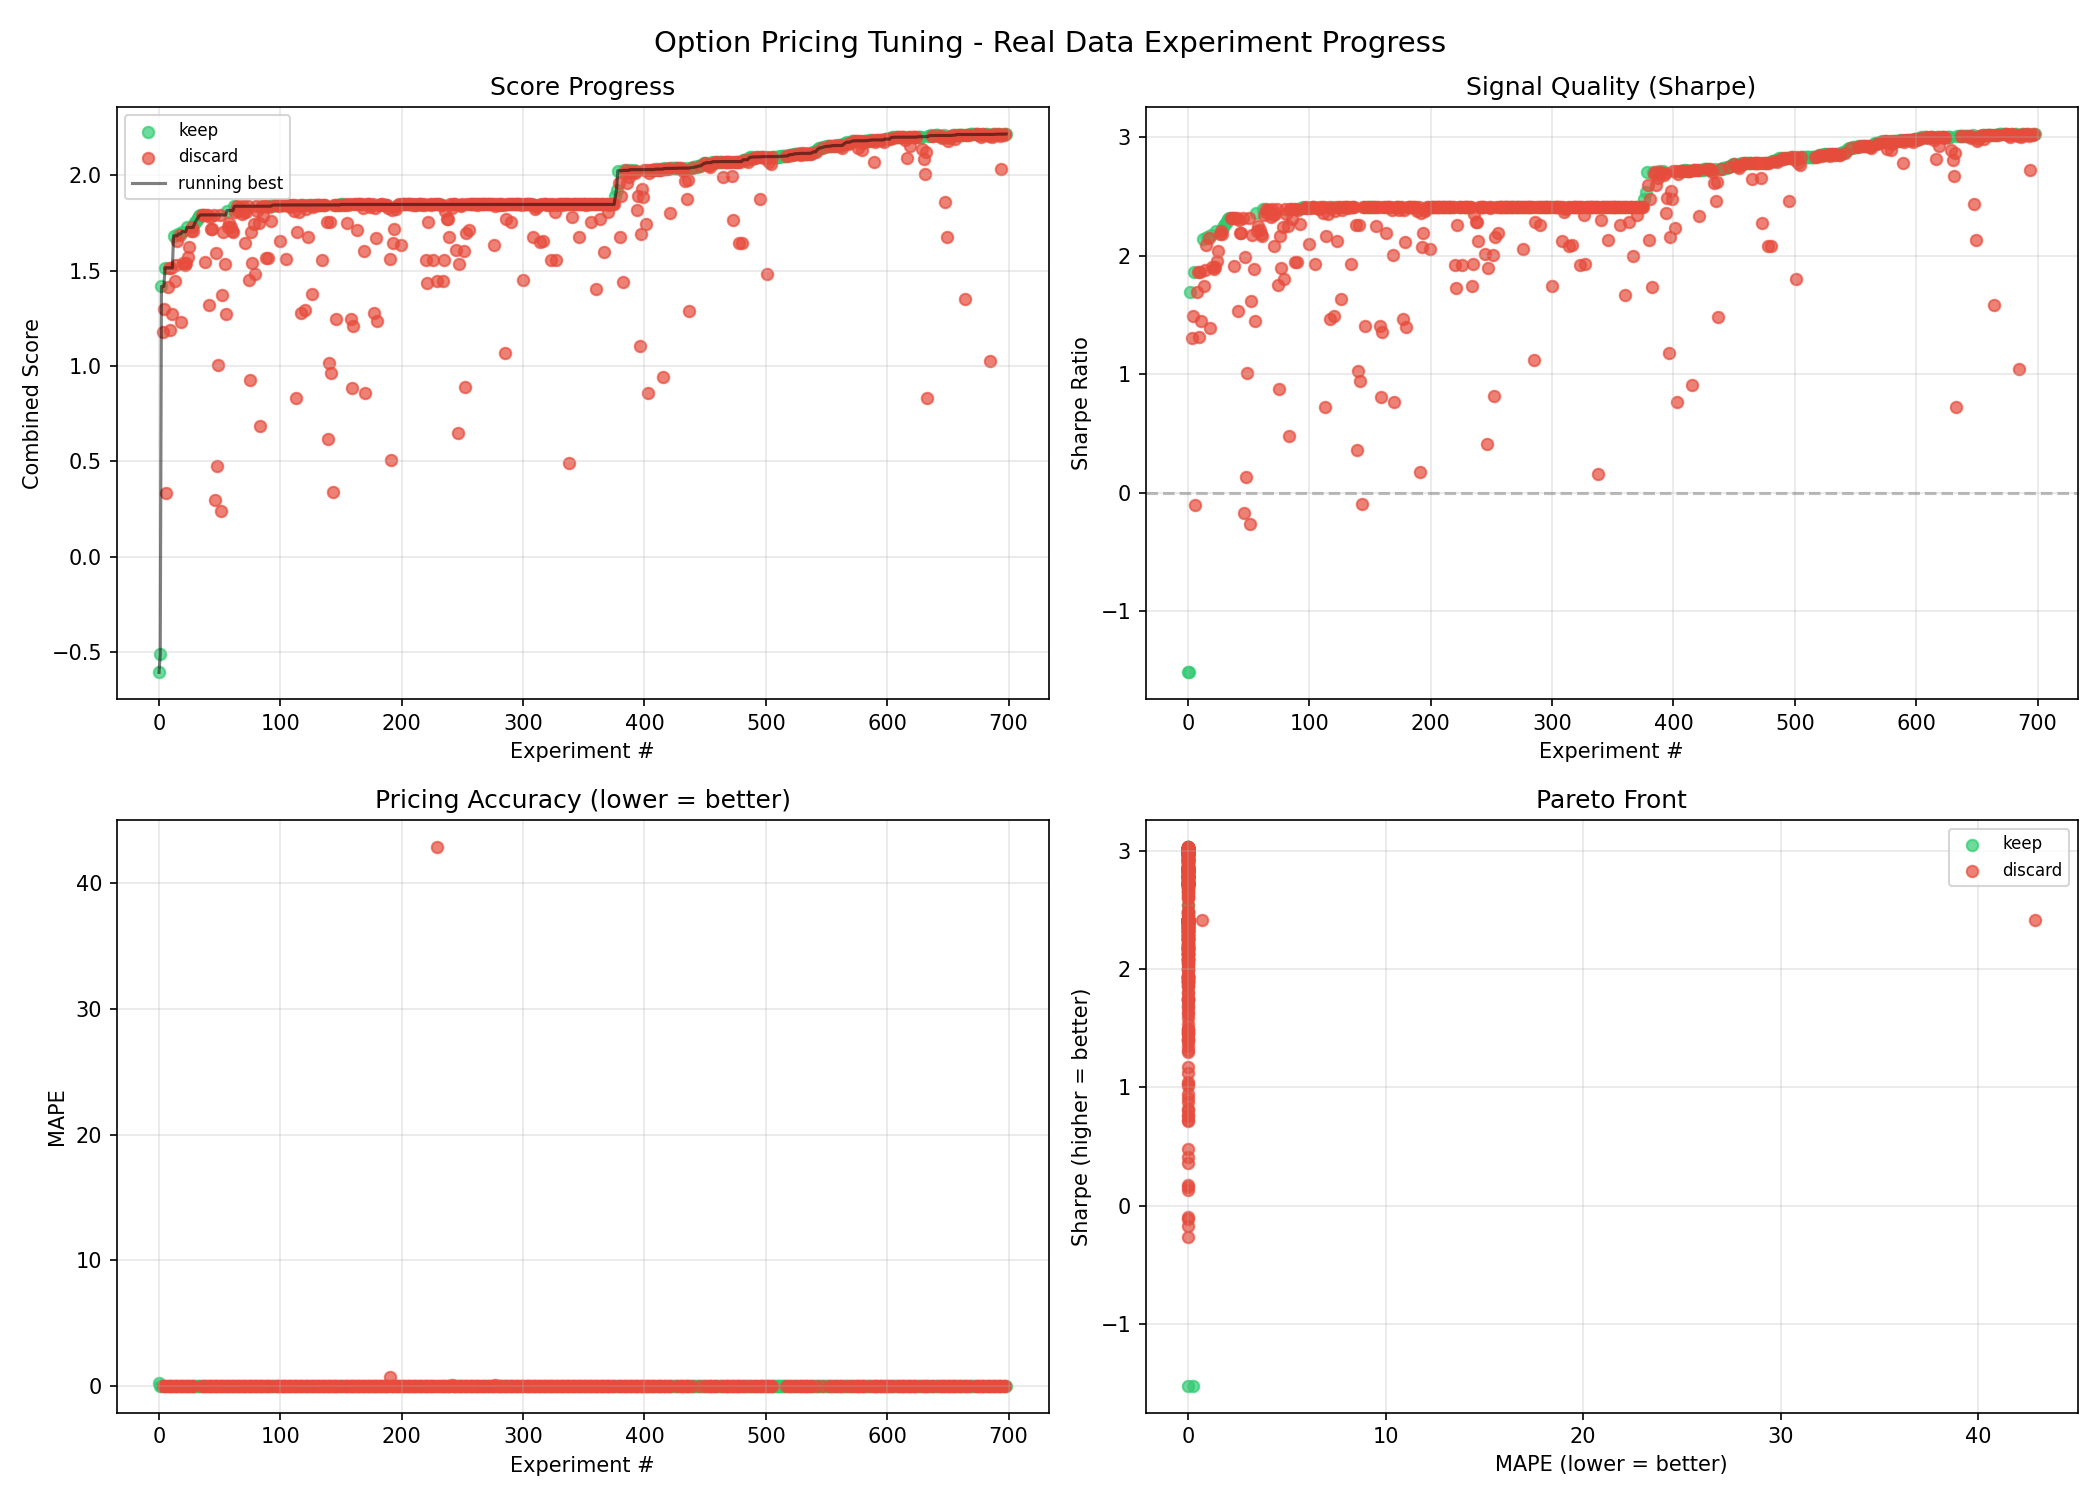
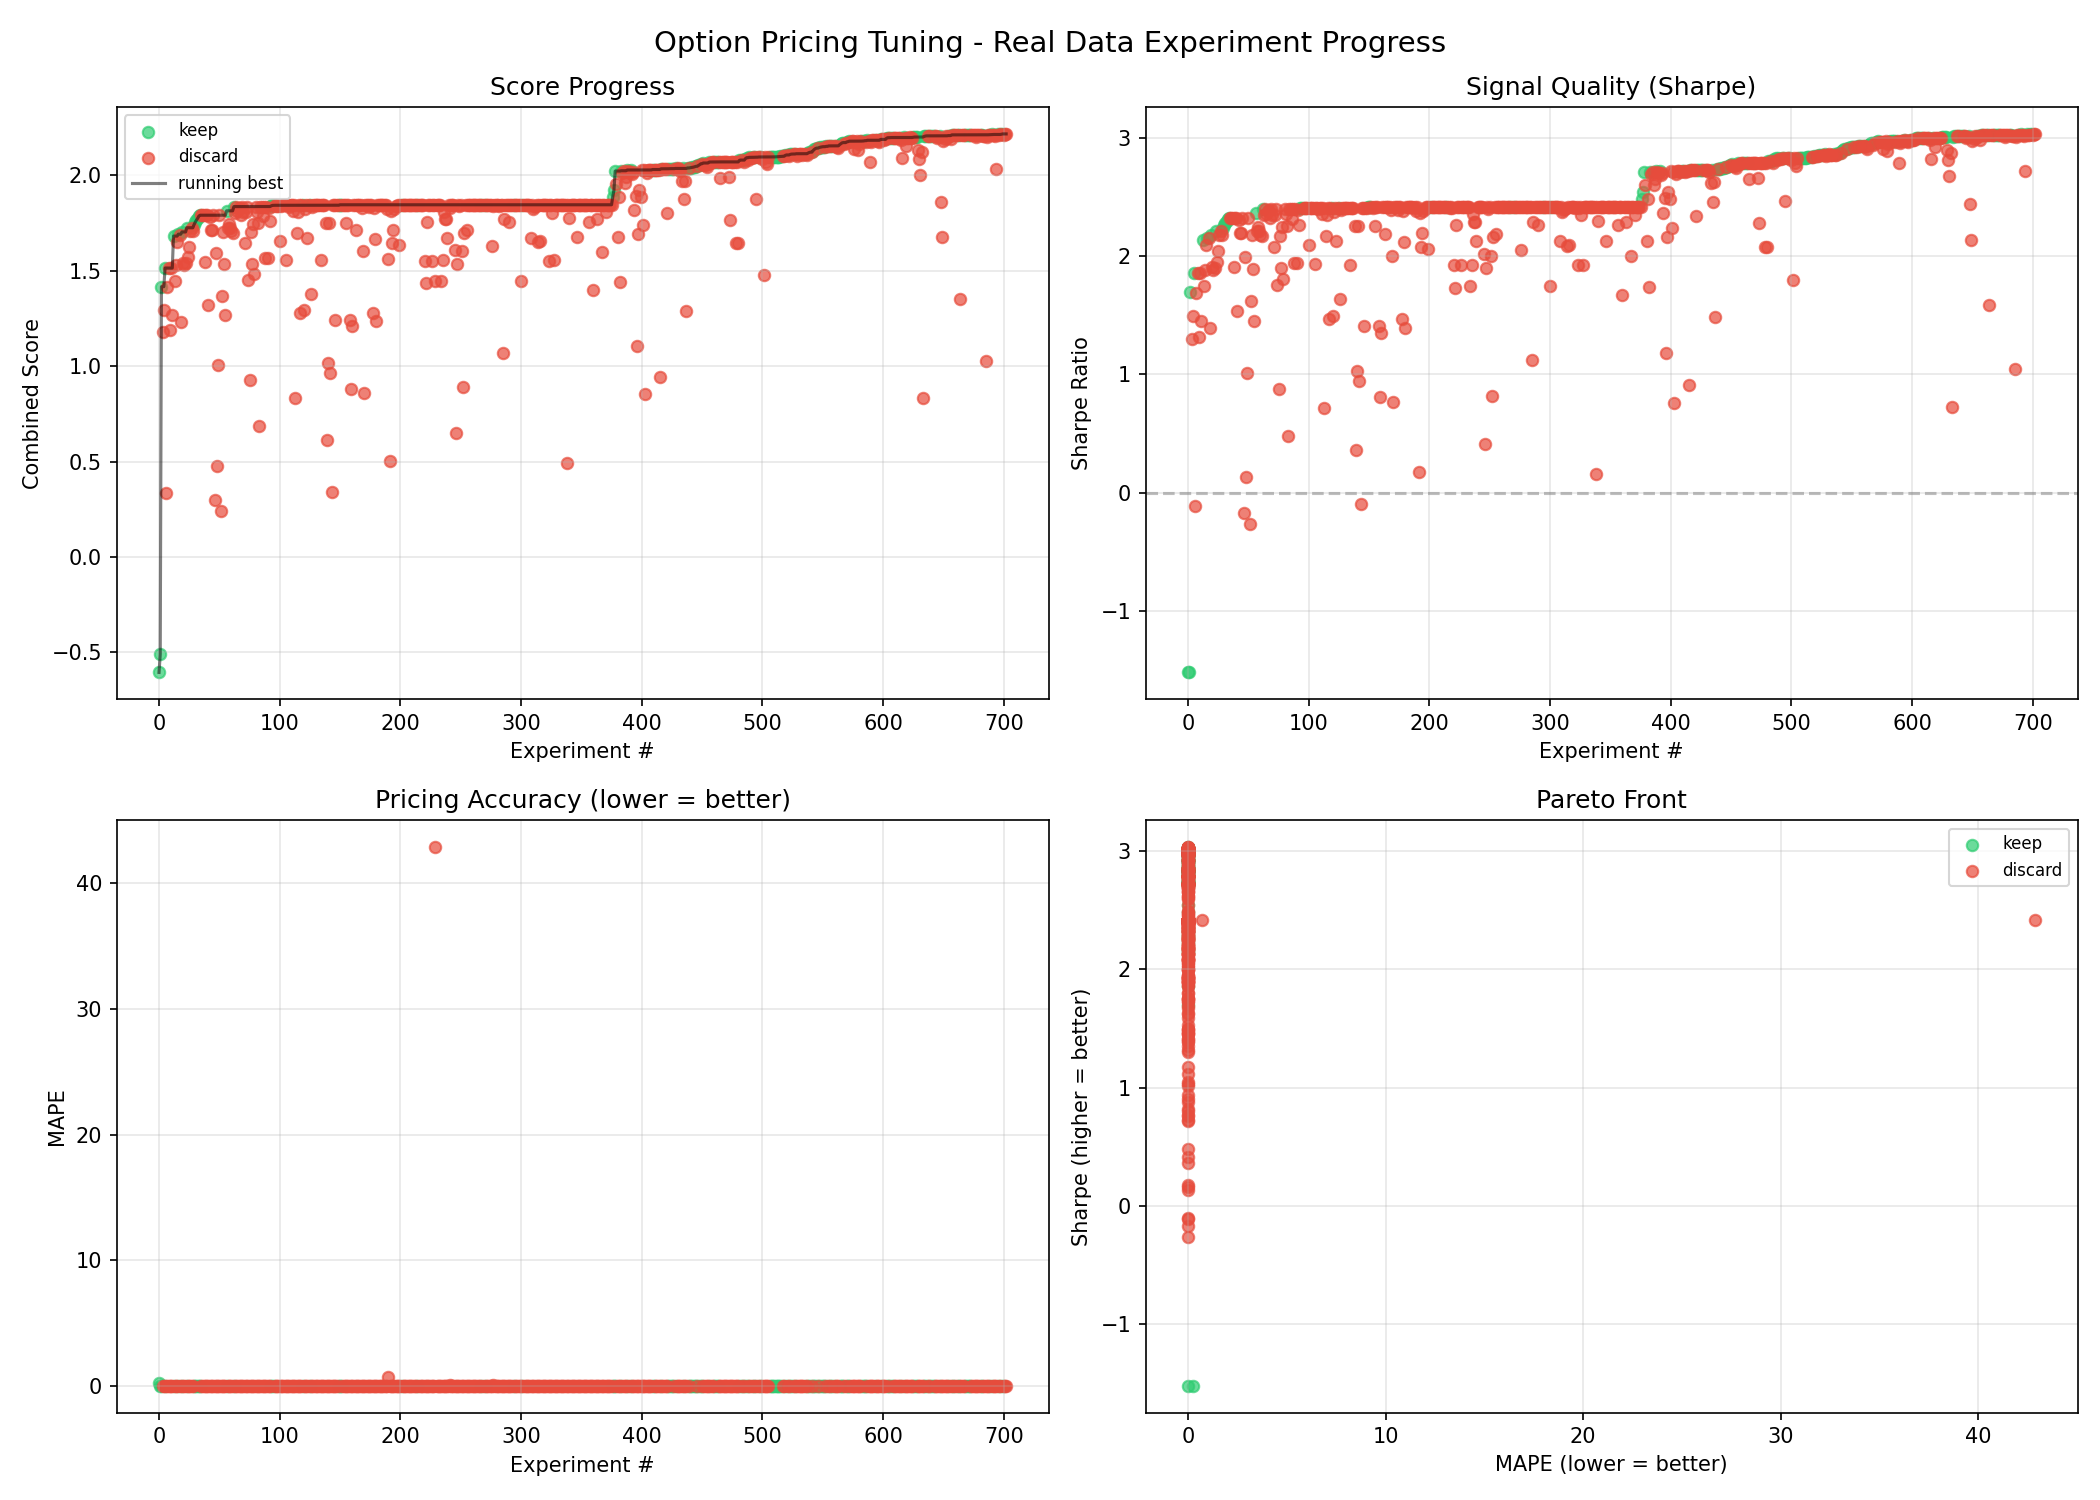
log exp703

diff --git a/README.md b/README.md
@@ -9,12 +9,12 @@ signals using **real stock market data** from Yahoo Finance.
 
 | Metric | Value |
 |---|---|
-| Combined Score | 2.2161 |
-| Sharpe Ratio | 3.0282 |
+| Combined Score | 2.2180 |
+| Sharpe Ratio | 3.0313 |
 | MAPE | 0.002003 |
 | Win Rate | 86.2% |
 | Trades | 29 |
-| Experiments | 699 (156 kept) |
+| Experiments | 703 (157 kept) |
 
 ## How It Works
 
